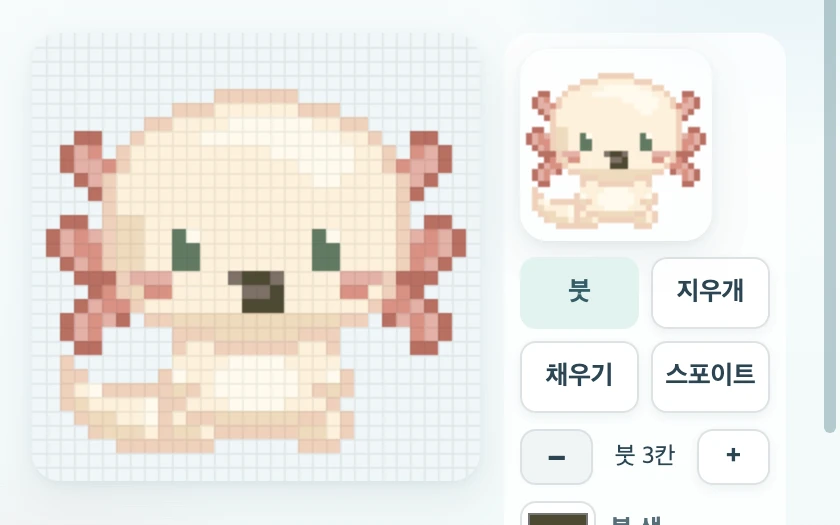
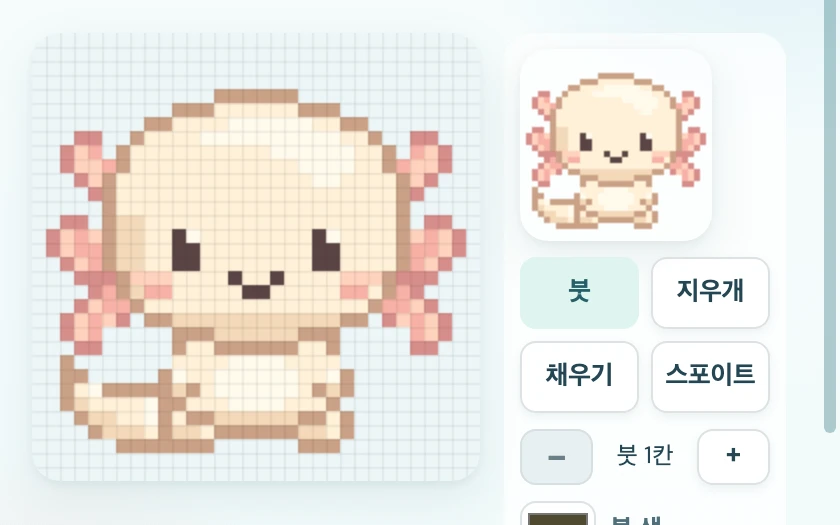
다마고치 설명 페이지를 최신 앱에 맞춤: 07번 꾸미기 그림 교체, 수영·소품 그림과 설명 글 갱신

diff --git a/projects/tamagotchi.html b/projects/tamagotchi.html
@@ -68,8 +68,8 @@
         <div class="p-stage" role="img" aria-label="바닷속 배경에 집과 작은 성, 불가사리가 놓여 있고 우파루파가 헤엄치는 모습">
           <img class="bg" src="assets/tamagotchi/reef-photo.webp" alt="" width="1152" height="662" fetchpriority="high">
           <span class="place" style="left:5%;bottom:8%"><img class="sprite" style="--w:33" src="assets/tamagotchi/house.png" alt="" width="33" height="28"></span>
-          <span class="place" style="left:40%;bottom:6%;--s:2"><img class="sprite" style="--w:30" src="assets/tamagotchi/props/prop-starfish.png" alt="" width="30" height="30"></span>
-          <span class="place" style="right:5%;bottom:7%;--s:2"><img class="sprite" style="--w:48" src="assets/tamagotchi/props/prop-castle.png" alt="" width="48" height="46"></span>
+          <span class="place" style="left:40%;bottom:6%;--s:4"><img class="sprite" style="--w:15" src="assets/tamagotchi/props/prop-starfish.png" alt="" width="15" height="15"></span>
+          <span class="place" style="right:5%;bottom:7%;--s:4"><img class="sprite" style="--w:24" src="assets/tamagotchi/props/prop-castle.png" alt="" width="24" height="22"></span>
           <span class="place drift" style="left:24%;top:24%"><span class="strip" style="--f:24;--d:1.44s"><img src="assets/tamagotchi/axolotl-swim.png" alt="" width="768" height="32"></span></span>
         </div>
       </figure>
@@ -132,8 +132,8 @@
         </article>
         <article class="feat">
           <h3><span class="no mono">07</span>색·무늬 꾸미기</h3>
-          <div class="feat-media"><img class="p-shot" src="assets/tamagotchi/appearance.webp" alt="도트 칸에 우파루파의 색과 무늬를 직접 칠하는 화면" width="840" height="525" loading="lazy"></div>
-          <p>몸, 아가미, 눈 색을 고르고 도트 칸에 무늬를 직접 그려요. 세상에 하나뿐인 우파루파가 돼요!</p>
+          <div class="feat-media"><img class="p-shot" src="assets/tamagotchi/appearance.webp?v=2" alt="도트 칸에 우파루파의 색과 무늬를 직접 칠하는 화면" width="840" height="525" loading="lazy"></div>
+          <p>류시, 화이트 알비노, 멜라노, 형광 모프 중에 고르거나, 색과 무늬를 직접 칠해요!</p>
         </article>
         <article class="feat">
           <h3><span class="no mono">08</span>머리 장식 12가지</h3>
@@ -153,7 +153,7 @@
               <img class="sprite" style="--w:16" src="assets/tamagotchi/acc/hat-wizard.png" alt="" width="16" height="10" loading="lazy">
             </div>
           </div>
-          <p>모자, 머리띠, 헤드폰 같은 머리 장식을 씌워 줄 수 있어요. 마음에 드는 게 없으면 직접 도트로 그려도 돼요!</p>
+          <p>모자, 머리띠, 헤드폰 같은 머리 장식을 씌워 줘요. 원래 장식을 칠해 고치거나 직접 그려도 돼요!</p>
         </article>
         <article class="feat">
           <h3><span class="no mono">09</span>내 손으로 집 그리기</h3>
@@ -174,7 +174,7 @@
             <span class="place" style="left:81%;bottom:4%;translate:-50% 0"><img class="sprite" style="--w:18" src="assets/tamagotchi/props/prop-clam.png" alt="" width="18" height="14" loading="lazy"></span>
             <span class="place" style="left:30%;top:12%;--s:2"><span class="strip" style="--f:24;--d:1.44s"><img src="assets/tamagotchi/axolotl-swim.png" alt="" width="768" height="32" loading="lazy"></span></span>
           </div>
-          <p>작은 성, 보물상자, 진주 조개 같은 소품을 코인으로 사서 바닥에 놓아요. 끌어서 자리도 옮길 수 있어요!</p>
+          <p>작은 성, 보물상자, 진주 조개 같은 소품을 코인으로 사서 바닥에 놓아요. 끌어서 옮기고 크기도 바꿀 수 있어요!</p>
         </article>
         <article class="feat">
           <h3><span class="no mono">11</span>바다 배경 5가지</h3>
@@ -207,7 +207,7 @@
             <span class="place" style="left:20%;bottom:8%"><img class="sprite" style="--w:33" src="assets/tamagotchi/house.png" alt="" width="33" height="28" loading="lazy"></span>
             <span class="place" style="left:56%;bottom:8%"><img class="sprite" style="--w:32" src="assets/tamagotchi/axolotl.png" alt="" width="32" height="32" loading="lazy"></span>
           </div>
-          <p>집을 누르면 쏙 들어가 쉬어요. 3분 동안 자리를 비우면 알아서 집에 가서 기다려요.</p>
+          <p>집을 우클릭해 '집으로 보내기'를 누르면 쏙 들어가 쉬어요. 3분 동안 자리를 비우면 알아서 집에 가요.</p>
         </article>
         <article class="feat">
           <h3><span class="no mono">15</span>코딩할 때 옆에서 톡톡</h3>
@@ -226,15 +226,15 @@
       <div>
         <p class="eyebrow mono"><span class="idx">./info</span> about</p>
         <h2 class="title">이렇게 <span class="accent">만들었어요</span></h2>
-        <p class="lead">우파루파 도트 그림부터 바탕화면에 붙어 있는 창까지 2주쯤 걸려 만들었어요. 자동 검사 705개를 통과했고, macOS 설치본에서도 잘 돌아가는 걸 확인했어요. 아직 내려받는 곳은 없어요.</p>
+        <p class="lead">우파루파 도트 그림부터 바탕화면에 붙어 있는 창까지 2주쯤 걸려 만들었어요. 자동 검사 766개를 통과했고, macOS 설치본에서도 잘 돌아가는 걸 확인했어요. 아직 내려받는 곳은 없어요.</p>
       </div>
       <dl>
         <div class="cell"><dt class="k mono">status</dt><dd class="v">개발 완료 · 외부 배포 전</dd></div>
-        <div class="cell"><dt class="k mono">period</dt><dd class="v">2026.09.22 ~ 2026.10.04 (약 2주)</dd></div>
+        <div class="cell"><dt class="k mono">period</dt><dd class="v">2026.09.22 ~ 2026.10.06 (약 2주)</dd></div>
         <div class="cell"><dt class="k mono">target</dt><dd class="v">macOS 13 이상 · Windows 10 22H2 이상</dd></div>
         <div class="cell"><dt class="k mono">built with</dt><dd class="v">Electron · React · pixi.js · TypeScript</dd></div>
         <div class="cell"><dt class="k mono">contents</dt><dd class="v">먹이 4가지 · 머리 장식 12가지 · 수조 소품 8가지</dd></div>
-        <div class="cell"><dt class="k mono">checks</dt><dd class="v">자동 검사 705개 통과</dd></div>
+        <div class="cell"><dt class="k mono">checks</dt><dd class="v">자동 검사 766개 통과</dd></div>
       </dl>
     </section>
   </main>
